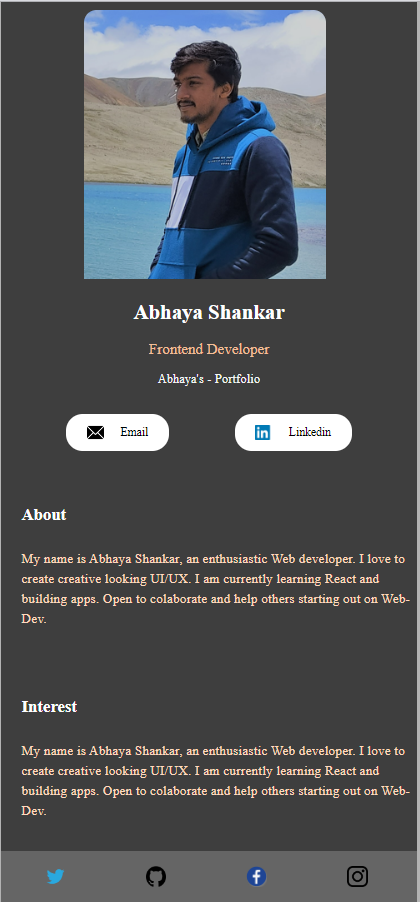
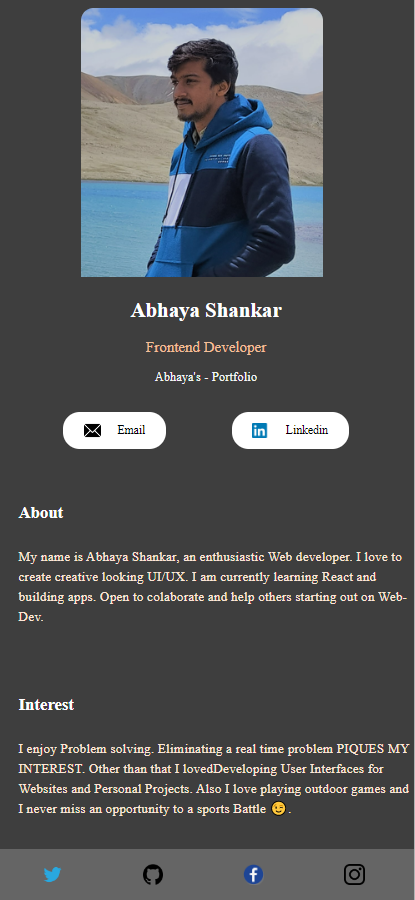
project done and dusted

diff --git a/projects/project-1/src/Interest.js b/projects/project-1/src/Interest.js
@@ -6,10 +6,10 @@ export default function Interest() {
     <div className="interest">
       <h4> Interest </h4>
       <p>
-        My name is Abhaya Shankar, an enthusiastic Web developer. I love to
-        create creative looking UI/UX. I am currently learning React and
-        building apps. Open to colaborate and help others starting out on
-        Web-Dev.
+        I enjoy Problem solving. Eliminating a real time problem PIQUES MY
+        INTEREST. Other than that I lovedDeveloping User Interfaces for Websites
+        and Personal Projects. Also I love playing outdoor games and I never
+        miss an opportunity to a sports Battle 😉.
       </p>
     </div>
   );

diff --git a/projects/project-1/src/index.css b/projects/project-1/src/index.css
@@ -54,6 +54,10 @@ code {
   font-size: 14px;
 }
 
+.info-main a:hover {
+  color: #fdcbcb;
+}
+
 .info-main-content {
   display: flex;
   justify-content: space-evenly;
@@ -105,7 +109,7 @@ code {
   margin-left: 25px;
   letter-spacing: 0.2px;
   line-height: 150%;
-  color: #ffdabf;
+  color: #fde7d7;
 }
 
 .interest {
@@ -133,7 +137,7 @@ code {
   margin-left: 25px;
   letter-spacing: 0.2px;
   line-height: 150%;
-  color: #ffdabf;
+  color: #fde7d7;
 }
 
 .footer {
